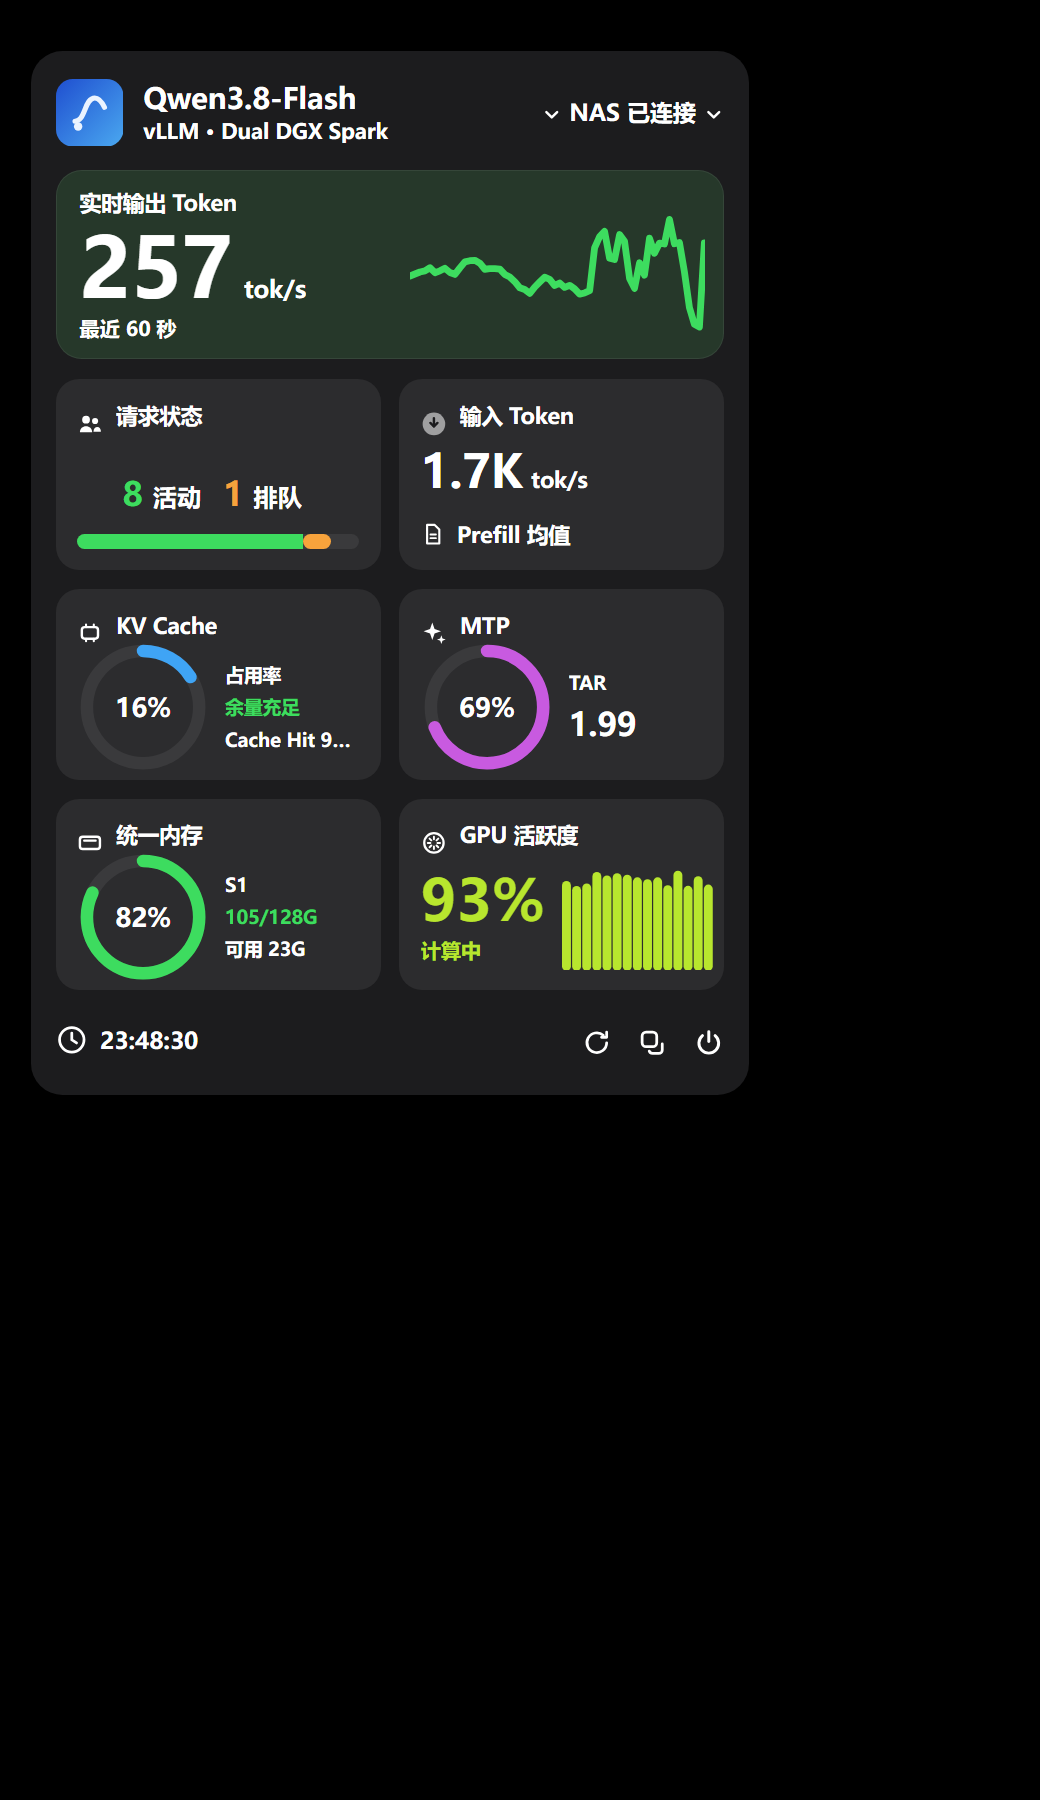
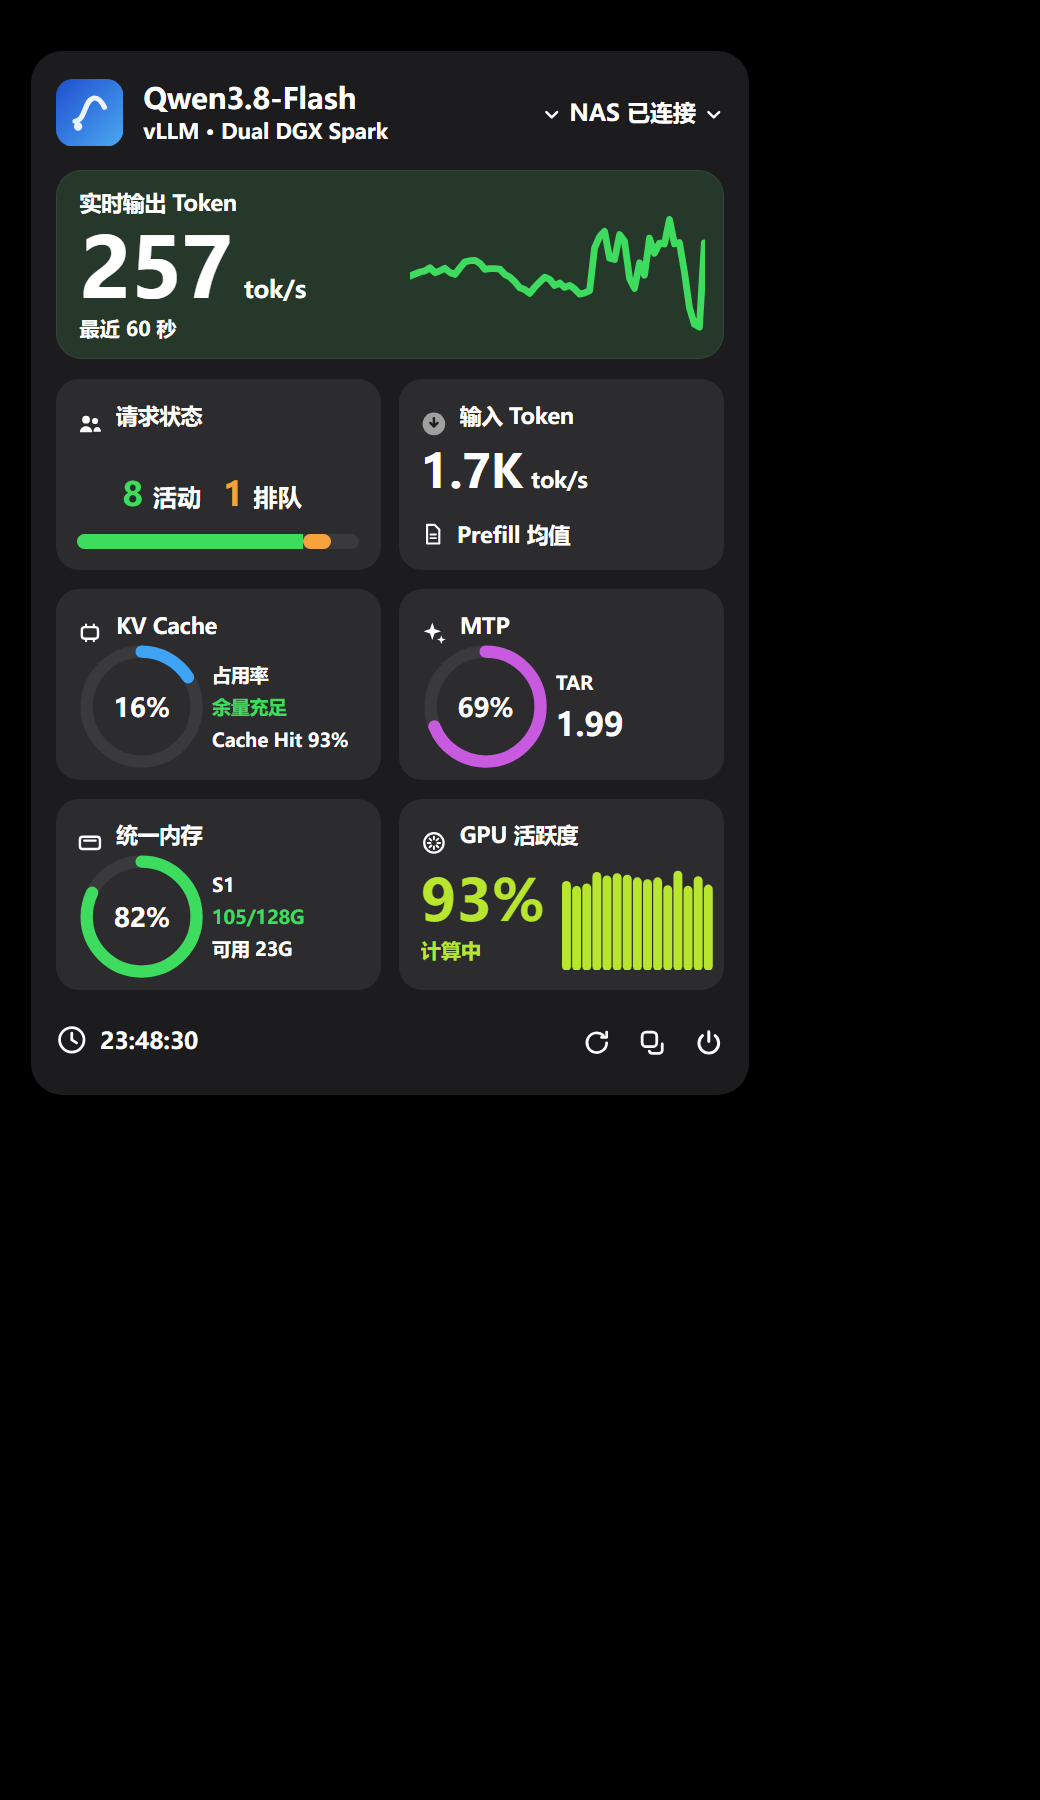
fix: 环形文案不再被截断（含真实文本宽度断言）

diff --git a/llm-monitor.html b/llm-monitor.html
@@ -266,13 +266,14 @@ body {
 .card-body.ring-body {
   flex-direction: row;
   align-items: center;
-  gap: calc(var(--u) * 2.2);
+  /* 参考图里环与右侧文案几乎是贴着的（间隙≈0）；留 2u 会把 "Cache Hit 93%" 挤到省略号 */
+  gap: calc(var(--u) * 0.8);
 }
 .ring-wrap {
   position: relative;
   flex: 0 0 auto;
-  width: calc(var(--u) * 18.4);
-  height: calc(var(--u) * 18.4);
+  width: calc(var(--u) * 18);
+  height: calc(var(--u) * 18);
 }
 .ring {
   display: block;
@@ -1302,6 +1303,23 @@ function collectProbe(root, s, stats) {
     return n ? n.getBoundingClientRect().width : 0;
   };
   const cardEl = root.querySelector('#card-req');
+  // 量 "Cache Hit 93%" 的真实文本宽度与可用宽度（scrollWidth 在 ellipsis 下会被钳住，不可用）
+  const kvFit = (() => {
+    const node = root.querySelector('#kv-hit');
+    if (!node) return { need: 0, avail: 0 };
+    const cs = getComputedStyle(node);
+    const probe = document.createElement('span');
+    probe.textContent = node.textContent;
+    // 不能用 cs.font：Chrome 常返回空串，量出来会变成 16px 默认字体（假数据）
+    probe.style.cssText =
+      'position:absolute;visibility:hidden;white-space:nowrap;' +
+      'font-family:' + cs.fontFamily + ';font-size:' + cs.fontSize +
+      ';font-weight:' + cs.fontWeight + ';letter-spacing:' + cs.letterSpacing;
+    document.body.appendChild(probe);
+    const need = Math.round(probe.getBoundingClientRect().width * 100) / 100;
+    probe.remove();
+    return { need, avail: Math.round(node.clientWidth * 100) / 100 };
+  })();
   return {
     mode: 'test',
     viewport: { w: innerWidth, h: innerHeight },
@@ -1351,11 +1369,12 @@ function collectProbe(root, s, stats) {
         value: read('kv-value'),
         headroom: read('kv-headroom'),
         hit: read('kv-hit'),
-        // 省略号兜底很容易把正常文案也吃掉（曾把 "Cache Hit 93%" 截成 "Cache Hit …"），必须断言
-        clipped: (() => {
-          const n = root.querySelector('#kv-hit');
-          return n ? n.scrollWidth > n.clientWidth + 1 : false;
-        })(),
+        // 省略号兜底很容易把正常文案也吃掉（曾把 "Cache Hit 93%" 截成 "Cache Hit …"）。
+        // 注意不能用 scrollWidth 判断：text-overflow: ellipsis 下 scrollWidth 会被钳到 clientWidth，
+        // 得到的是假阴性。这里用同字体的隐藏 span 量真实文本宽度。
+        clipped: kvFit.need > kvFit.avail + 1,
+        need: kvFit.need,
+        avail: kvFit.avail,
         ratio: arcRatio(root.querySelector('#kv-arc')),
       },
       mtp: {

diff --git a/src/render.js b/src/render.js
@@ -250,6 +250,23 @@ export function collectProbe(root, s, stats) {
     return n ? n.getBoundingClientRect().width : 0;
   };
   const cardEl = root.querySelector('#card-req');
+  // 量 "Cache Hit 93%" 的真实文本宽度与可用宽度（scrollWidth 在 ellipsis 下会被钳住，不可用）
+  const kvFit = (() => {
+    const node = root.querySelector('#kv-hit');
+    if (!node) return { need: 0, avail: 0 };
+    const cs = getComputedStyle(node);
+    const probe = document.createElement('span');
+    probe.textContent = node.textContent;
+    // 不能用 cs.font：Chrome 常返回空串，量出来会变成 16px 默认字体（假数据）
+    probe.style.cssText =
+      'position:absolute;visibility:hidden;white-space:nowrap;' +
+      'font-family:' + cs.fontFamily + ';font-size:' + cs.fontSize +
+      ';font-weight:' + cs.fontWeight + ';letter-spacing:' + cs.letterSpacing;
+    document.body.appendChild(probe);
+    const need = Math.round(probe.getBoundingClientRect().width * 100) / 100;
+    probe.remove();
+    return { need, avail: Math.round(node.clientWidth * 100) / 100 };
+  })();
   return {
     mode: 'test',
     viewport: { w: innerWidth, h: innerHeight },
@@ -299,11 +316,12 @@ export function collectProbe(root, s, stats) {
         value: read('kv-value'),
         headroom: read('kv-headroom'),
         hit: read('kv-hit'),
-        // 省略号兜底很容易把正常文案也吃掉（曾把 "Cache Hit 93%" 截成 "Cache Hit …"），必须断言
-        clipped: (() => {
-          const n = root.querySelector('#kv-hit');
-          return n ? n.scrollWidth > n.clientWidth + 1 : false;
-        })(),
+        // 省略号兜底很容易把正常文案也吃掉（曾把 "Cache Hit 93%" 截成 "Cache Hit …"）。
+        // 注意不能用 scrollWidth 判断：text-overflow: ellipsis 下 scrollWidth 会被钳到 clientWidth，
+        // 得到的是假阴性。这里用同字体的隐藏 span 量真实文本宽度。
+        clipped: kvFit.need > kvFit.avail + 1,
+        need: kvFit.need,
+        avail: kvFit.avail,
         ratio: arcRatio(root.querySelector('#kv-arc')),
       },
       mtp: {

diff --git a/tools/probe.js b/tools/probe.js
@@ -151,7 +151,7 @@ function checkCards(p) {
   eq('KV Cache：中心值', c.kv.value, '16%');
   eq('KV Cache：余量文案', c.kv.headroom, '余量充足');
   eq('KV Cache：命中率', c.kv.hit, 'Cache Hit 93%');
-  eq('KV Cache：命中率文案不得被省略号截断', c.kv.clipped, false);
+  add('KV Cache：命中率文案不得被省略号截断（需要 ' + c.kv.need + 'px / 可用 ' + c.kv.avail + 'px）', c.kv.clipped === false, '文案被省略号截断');
   near('KV Cache：弧比例', c.kv.ratio, 0.16, 0.01);
   eq('MTP：中心值', c.mtp.value, '69%');
   near('MTP：弧比例', c.mtp.ratio, 0.69, 0.01);

diff --git a/styles.css b/styles.css
@@ -258,13 +258,14 @@ body {
 .card-body.ring-body {
   flex-direction: row;
   align-items: center;
-  gap: calc(var(--u) * 2.2);
+  /* 参考图里环与右侧文案几乎是贴着的（间隙≈0）；留 2u 会把 "Cache Hit 93%" 挤到省略号 */
+  gap: calc(var(--u) * 0.8);
 }
 .ring-wrap {
   position: relative;
   flex: 0 0 auto;
-  width: calc(var(--u) * 18.4);
-  height: calc(var(--u) * 18.4);
+  width: calc(var(--u) * 18);
+  height: calc(var(--u) * 18);
 }
 .ring {
   display: block;
